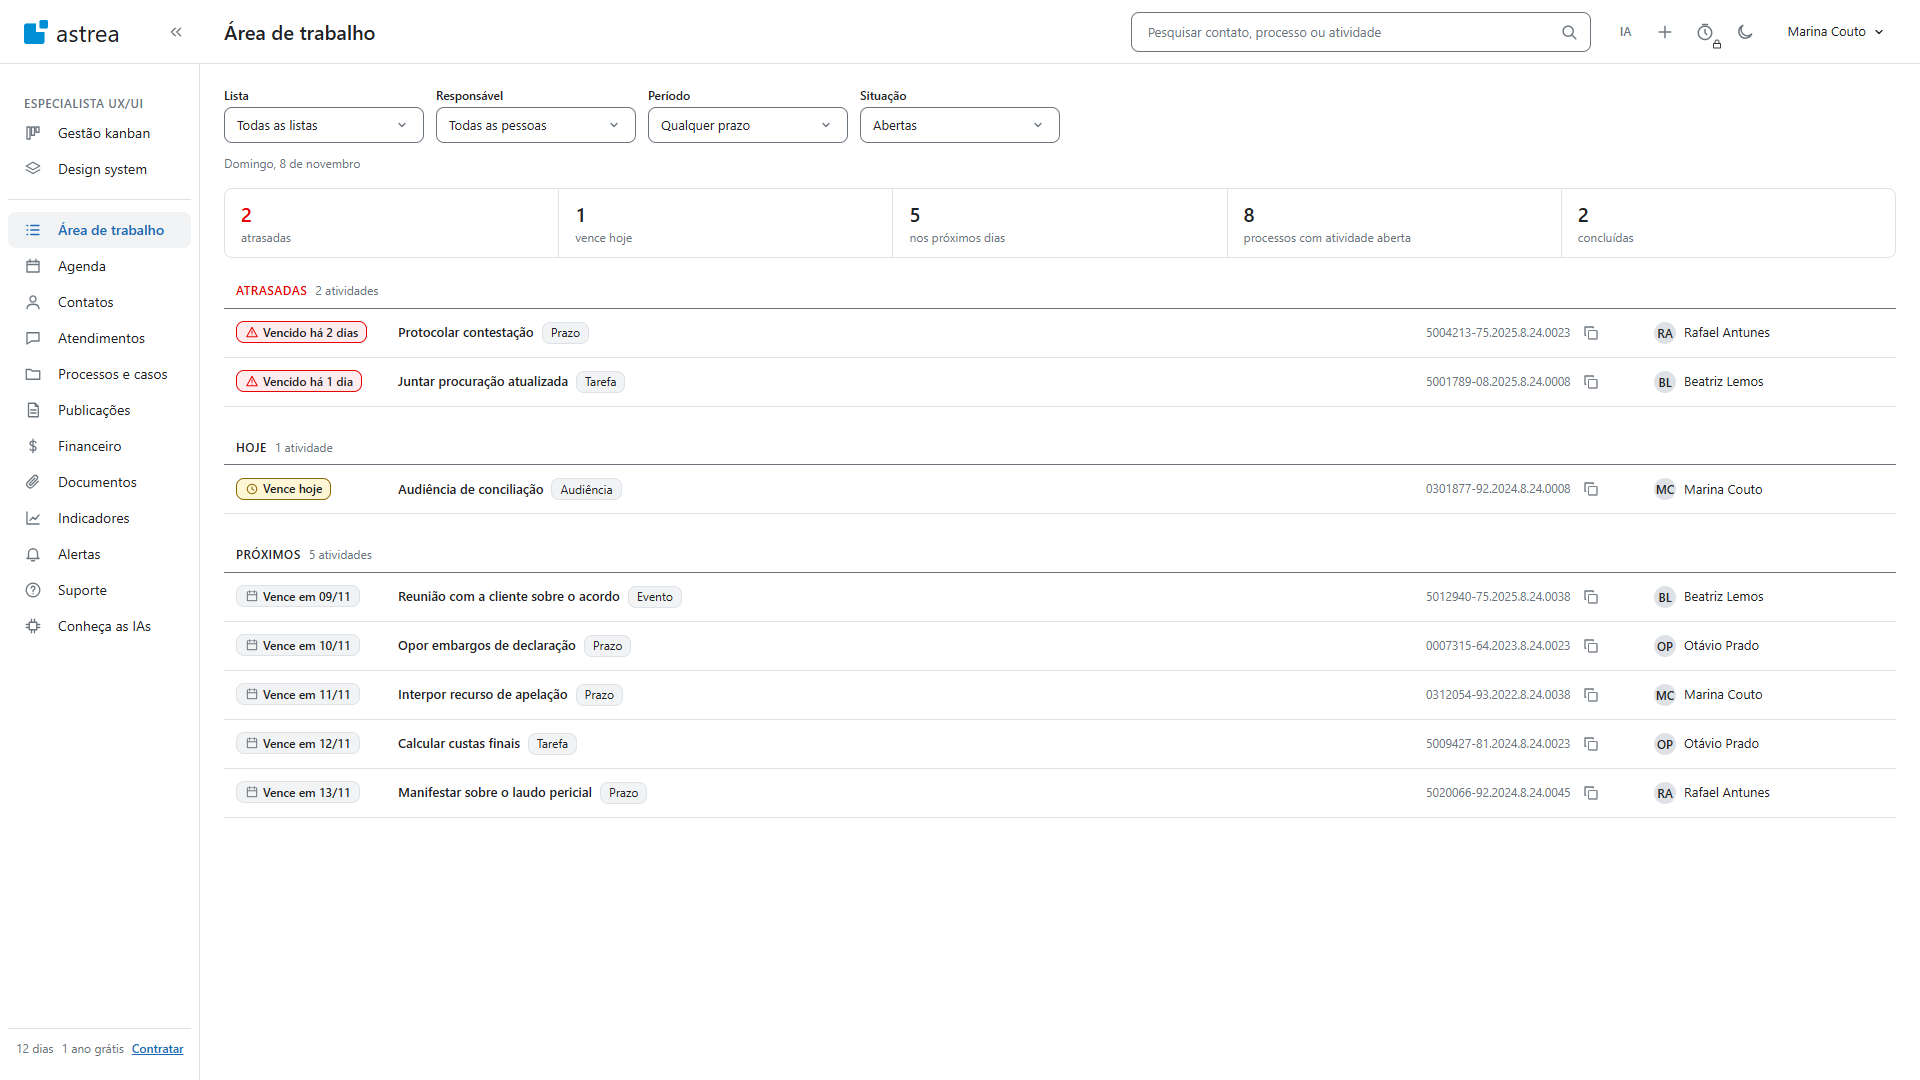
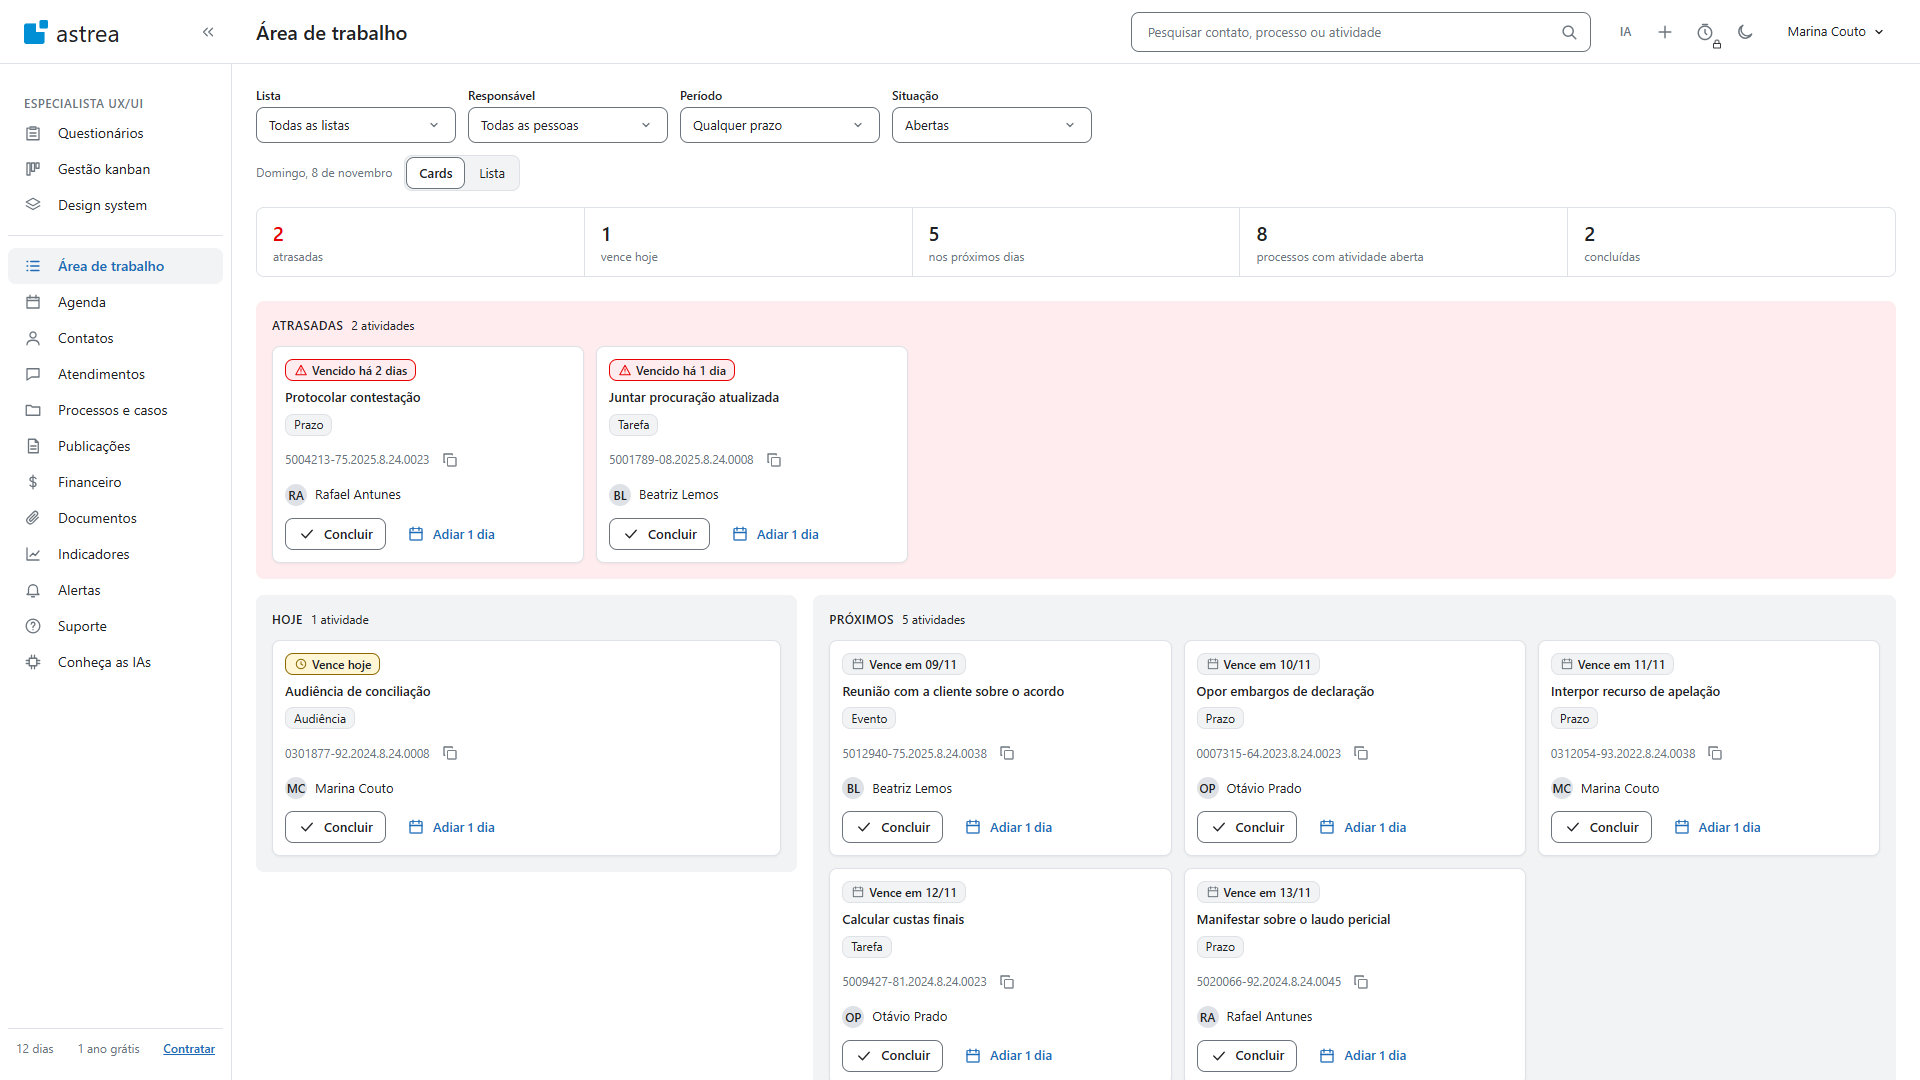
Área de trabalho em cards por padrão, com alternância para lista; hover azul nos cards
Pedido de Felipe pelo outro terminal. cardAtividade ganha copiarNumero, padrão false. Suíte: 34 testes OK, verificar --todos --base-kanban --sincronia --dados-reais 0 erro, RF-01 a RF-15 ok, detectar 0. Captura do slide da Q3 refeita.

Claude-Session: https://claude.ai/code/session_0136REMWGRpNP8vTL6msTuot

diff --git a/prototipo/area-de-trabalho.html b/prototipo/area-de-trabalho.html
@@ -80,6 +80,49 @@
   .secao[data-secao="atrasadas"] h2 { color: var(--color-text-danger); }
   .secao-nota { color: var(--color-text-muted); font-size: var(--font-size-label); }
   .secao .estado-vazio { padding: var(--space-4) var(--space-3); }
+
+  .area-direita { display: flex; flex-wrap: wrap; align-items: center; gap: var(--space-3); }
+  /* Alternância de formato, a mesma de Contatos. */
+  .formato {
+    display: inline-flex;
+    gap: var(--border-width);
+    padding: var(--border-width);
+    background-color: var(--color-bg-subtle);
+    border: var(--border-width) solid var(--color-border-default);
+    border-radius: var(--radius);
+  }
+  .formato-opcao {
+    min-height: calc(var(--component-control-height) - var(--space-1));
+    padding: 0 var(--space-3);
+    background: none;
+    border: var(--border-width) solid transparent;
+    border-radius: var(--radius);
+    color: var(--color-text-default);
+    font: inherit;
+    font-size: var(--font-size-button);
+    cursor: pointer;
+  }
+  .formato-opcao:hover { background-color: var(--color-bg-hover); }
+  .formato-opcao[aria-checked="true"] {
+    background-color: var(--color-bg-surface);
+    border-color: var(--color-border-strong);
+    font-weight: var(--font-weight-semibold);
+  }
+
+  /* Cards: cada grupo é um container. Atrasadas ocupa a largura toda e fica acima de Hoje (PA-32). */
+  [data-area-principal][data-visao="cards"] { display: grid; grid-template-columns: minmax(0, 1fr) minmax(0, 2fr); align-items: start; gap: var(--space-4); margin-bottom: var(--space-6); }
+  [data-visao="cards"] .secao { margin: 0; padding: var(--space-4); background-color: var(--color-bg-subtle); border-radius: var(--radius-card); }
+  [data-visao="cards"] .secao[data-secao="atrasadas"], [data-visao="cards"] .secao[data-secao="concluidas"] { grid-column: 1 / -1; }
+  [data-visao="cards"] .secao[data-secao="atrasadas"] { background-color: var(--color-bg-danger); }
+  [data-visao="cards"] .secao[data-secao="atrasadas"] h2, [data-visao="cards"] .secao-nota { color: var(--color-text-default); }
+  [data-visao="cards"] .secao-cabeca { padding: 0 0 var(--space-3); border-bottom: 0; }
+  .cards-atividade { display: grid; grid-template-columns: repeat(auto-fill, minmax(min(100%, var(--size-column)), 1fr)); gap: var(--space-3); margin: 0; padding: 0; list-style: none; }
+  .cards-atividade > li { display: flex; min-width: 0; }
+  .cards-atividade .card-atividade { width: 100%; }
+  .card-acoes { display: flex; flex-wrap: wrap; gap: var(--space-2); margin-top: auto; padding-top: var(--space-1); }
+  @media (max-width: 900px) {
+    [data-area-principal][data-visao="cards"] { grid-template-columns: minmax(0, 1fr); }
+  }
 </style>
 </head>
 <body data-pagina="area-de-trabalho.html" data-titulo="Área de trabalho">
@@ -87,7 +130,10 @@
   <main id="conteudo">
     <div class="area-topo">
       <div class="barra-filtros" id="filtros" role="group" aria-label="Filtros da área de trabalho"></div>
-      <p class="area-data" id="area-data"></p>
+      <div class="area-direita">
+        <p class="area-data" id="area-data"></p>
+        <div class="formato" id="formato" role="radiogroup" aria-label="Formato da lista"></div>
+      </div>
     </div>
 
     <ul class="leitura" id="leitura" aria-label="Resumo das atividades"></ul>
@@ -119,6 +165,9 @@
 (function () {
   // PA-37: a escolha dos filtros fica gravada no navegador e volta ao abrir a página.
   const CHAVE_FILTRO = 'astrea-filtro-area';
+  // Cards abre por padrão: cada grupo vira um container, com as ações à vista.
+  const CHAVE_VISAO = 'astrea-area-visao';
+  const VISOES = [['cards', 'Cards'], ['lista', 'Lista']];
   // O usuário logado da moldura. Minhas e Delegadas comparam o responsável com ele (PA-35).
   const EU = 'Marina Couto';
   const OUTRAS_PESSOAS = window.DADOS.RESPONSAVEIS.filter((nome) => nome !== EU).sort();
@@ -168,6 +217,13 @@
 
   const atividades = window.DADOS.ATIVIDADES.map((a) => ({ ...a }));
   const filtro = lerFiltro();
+  let visao = lerVisao();
+
+  function lerVisao() {
+    let salva = null;
+    try { salva = localStorage.getItem(CHAVE_VISAO); } catch (e) { salva = null; }
+    return VISOES.some(([chave]) => chave === salva) ? salva : VISOES[0][0];
+  }
 
   // Valor gravado fora das opções volta ao padrão: a opção pode ter saído da conta.
   function lerFiltro() {
@@ -207,7 +263,7 @@
     avisar(mensagem, () => {
       Object.assign(atividade, antes);
       desenhar();
-      const linha = document.querySelector(`[data-id="${atividade.id}"] .linha-acoes button`);
+      const linha = document.querySelector(`[data-id="${atividade.id}"] .linha-acoes button, [data-id="${atividade.id}"] .card-acoes button`);
       if (linha) linha.focus();
     });
   }
@@ -248,6 +304,45 @@
     document.getElementById('filtros').replaceChildren(...seletores);
   }
 
+  // --- formato: cards ou lista --------------------------------------------------
+
+  function montarFormato() {
+    const grupo = document.getElementById('formato');
+    const opcoes = VISOES.map(([chave, rotulo]) => {
+      const el = document.createElement('button');
+      el.type = 'button';
+      el.className = 'formato-opcao';
+      el.textContent = rotulo;
+      el.dataset.visao = chave;
+      el.setAttribute('role', 'radio');
+      el.addEventListener('click', () => escolher(chave, false));
+      return el;
+    });
+    function marcar() {
+      opcoes.forEach((el) => {
+        const marcada = el.dataset.visao === visao;
+        el.setAttribute('aria-checked', String(marcada));
+        el.tabIndex = marcada ? 0 : -1;
+      });
+    }
+    function escolher(chave, focar) {
+      visao = chave;
+      try { localStorage.setItem(CHAVE_VISAO, chave); } catch (e) { /* sem armazenamento */ }
+      marcar();
+      desenhar();
+      if (focar) opcoes.find((el) => el.dataset.visao === chave).focus();
+    }
+    grupo.addEventListener('keydown', (e) => {
+      const passo = { ArrowRight: 1, ArrowDown: 1, ArrowLeft: -1, ArrowUp: -1 }[e.key];
+      if (!passo) return;
+      e.preventDefault();
+      const atual = VISOES.findIndex(([chave]) => chave === visao);
+      escolher(VISOES[(atual + passo + VISOES.length) % VISOES.length][0], true);
+    });
+    grupo.replaceChildren(...opcoes);
+    marcar();
+  }
+
   // --- desenho -----------------------------------------------------------------
 
   function linha(a) {
@@ -258,6 +353,26 @@
     });
     el.dataset.id = a.id;
     return el;
+  }
+
+  function card(a) {
+    const prazo = DS.descreverPrazo(a.prazoEmDias, concluida(a));
+    const el = DS.cardAtividade({
+      titulo: a.titulo, tipo: a.tipo, estadoPrazo: prazo.estadoPrazo, prazo: prazo.rotulo,
+      processo: a.processo, responsavel: a.responsavel, copiarNumero: true,
+    });
+    el.dataset.id = a.id;
+    const acoes = document.createElement('div');
+    acoes.className = 'card-acoes';
+    acoes.append(...acoesDe(a).map((acao, i) => {
+      const botao = DS.botao({ rotulo: acao.rotulo, iconeEsquerda: acao.icone, tamanho: 'pequeno', variante: i === 0 ? 'secundario' : 'texto' });
+      botao.addEventListener('click', acao.aoClicar);
+      return botao;
+    }));
+    el.append(acoes);
+    const li = document.createElement('li');
+    li.append(el);
+    return li;
   }
 
   // Vazio por filtro troca a ação: "Limpar filtros" (03-tela, estado vazio).
@@ -280,9 +395,9 @@
       return daqui.length;
     }
     const ul = document.createElement('ul');
-    ul.className = 'lista-atividades';
+    ul.className = visao === 'cards' ? 'cards-atividade' : 'lista-atividades';
     ul.setAttribute('aria-labelledby', `titulo-${secao.chave}`);
-    ul.append(...daqui.map(linha));
+    ul.append(...daqui.map(visao === 'cards' ? card : linha));
     corpo.replaceChildren(ul);
     return daqui.length;
   }
@@ -317,6 +432,7 @@
   }
 
   function desenhar() {
+    document.querySelector('[data-area-principal]').dataset.visao = visao;
     const lista = atividades.filter(passa);
     const visiveis = SECOES_DA_SITUACAO[filtro.situacao];
     const contagem = {};
@@ -327,6 +443,7 @@
   const hoje = new Date().toLocaleDateString('pt-BR', { weekday: 'long', day: 'numeric', month: 'long' });
   document.getElementById('area-data').textContent = hoje.charAt(0).toUpperCase() + hoje.slice(1);
   montarFiltros();
+  montarFormato();
   desenhar();
 })();
 </script>

diff --git a/prototipo/componentes.js b/prototipo/componentes.js
@@ -1557,7 +1557,7 @@
   function cardAtividade(props = {}) {
     const {
       titulo, tipo, estadoPrazo, prazo, processo, responsavel, tags = [], aoAbrir,
-      mostrarPrazo = true, mostrarProcesso = true, mostrarResponsavel = true, mostrarTags = true,
+      mostrarPrazo = true, mostrarProcesso = true, mostrarResponsavel = true, mostrarTags = true, copiarNumero = false,
     } = props;
     validarAtividade('cardAtividade', props);
     exigir(Array.isArray(tags), 'cardAtividade', 'tags é uma lista de rótulos');
@@ -1575,7 +1575,12 @@
     etiquetas.append(tagDoTipo(tipo));
     if (mostrarTags) etiquetas.append(...tags.map((rotulo) => tag({ rotulo })));
     raiz.append(etiquetas);
-    if (mostrarProcesso && processo) raiz.append(numeroDoProcesso(processo));
+    if (mostrarProcesso && processo) {
+      const numero = criar('div', 'card-atividade-processo');
+      numero.append(numeroDoProcesso(processo));
+      if (copiarNumero) numero.append(botaoCopiar(processo));
+      raiz.append(numero);
+    }
     if (mostrarResponsavel && responsavel) raiz.append(avatar({ nome: responsavel, mostrarNome: true }));
 
     if (aoAbrir) {

diff --git a/prototipo/astrea.css b/prototipo/astrea.css
@@ -1387,10 +1387,11 @@ body[data-menu="recolhido"] .rodape-menu { display: none; }
   border-radius: var(--component-card-radius);
   box-shadow: var(--component-card-shadow);
 }
-.card-atividade:hover, .card-atividade.is-hover, .card-contato:hover, .card-contato.is-hover { border-color: var(--color-border-strong); }
+.card-atividade:hover, .card-atividade.is-hover, .card-contato:hover, .card-contato.is-hover { border-color: var(--color-action); }
 .card-atividade:active, .card-atividade.is-active { border-color: var(--color-action); }
 .card-atividade-titulo, .card-contato-nome { margin: 0; font-size: var(--font-size-body); font-weight: var(--font-weight-medium); line-height: var(--font-leading-tight); overflow-wrap: anywhere; }
 .card-atividade-tags { display: flex; flex-wrap: wrap; gap: var(--space-1); }
+.card-atividade-processo { display: flex; align-items: center; gap: var(--space-1); }
 
 /* card de contato: o cartão abre a ficha, e pelo teclado o nome é o botão */
 .card-contato { cursor: pointer; }
